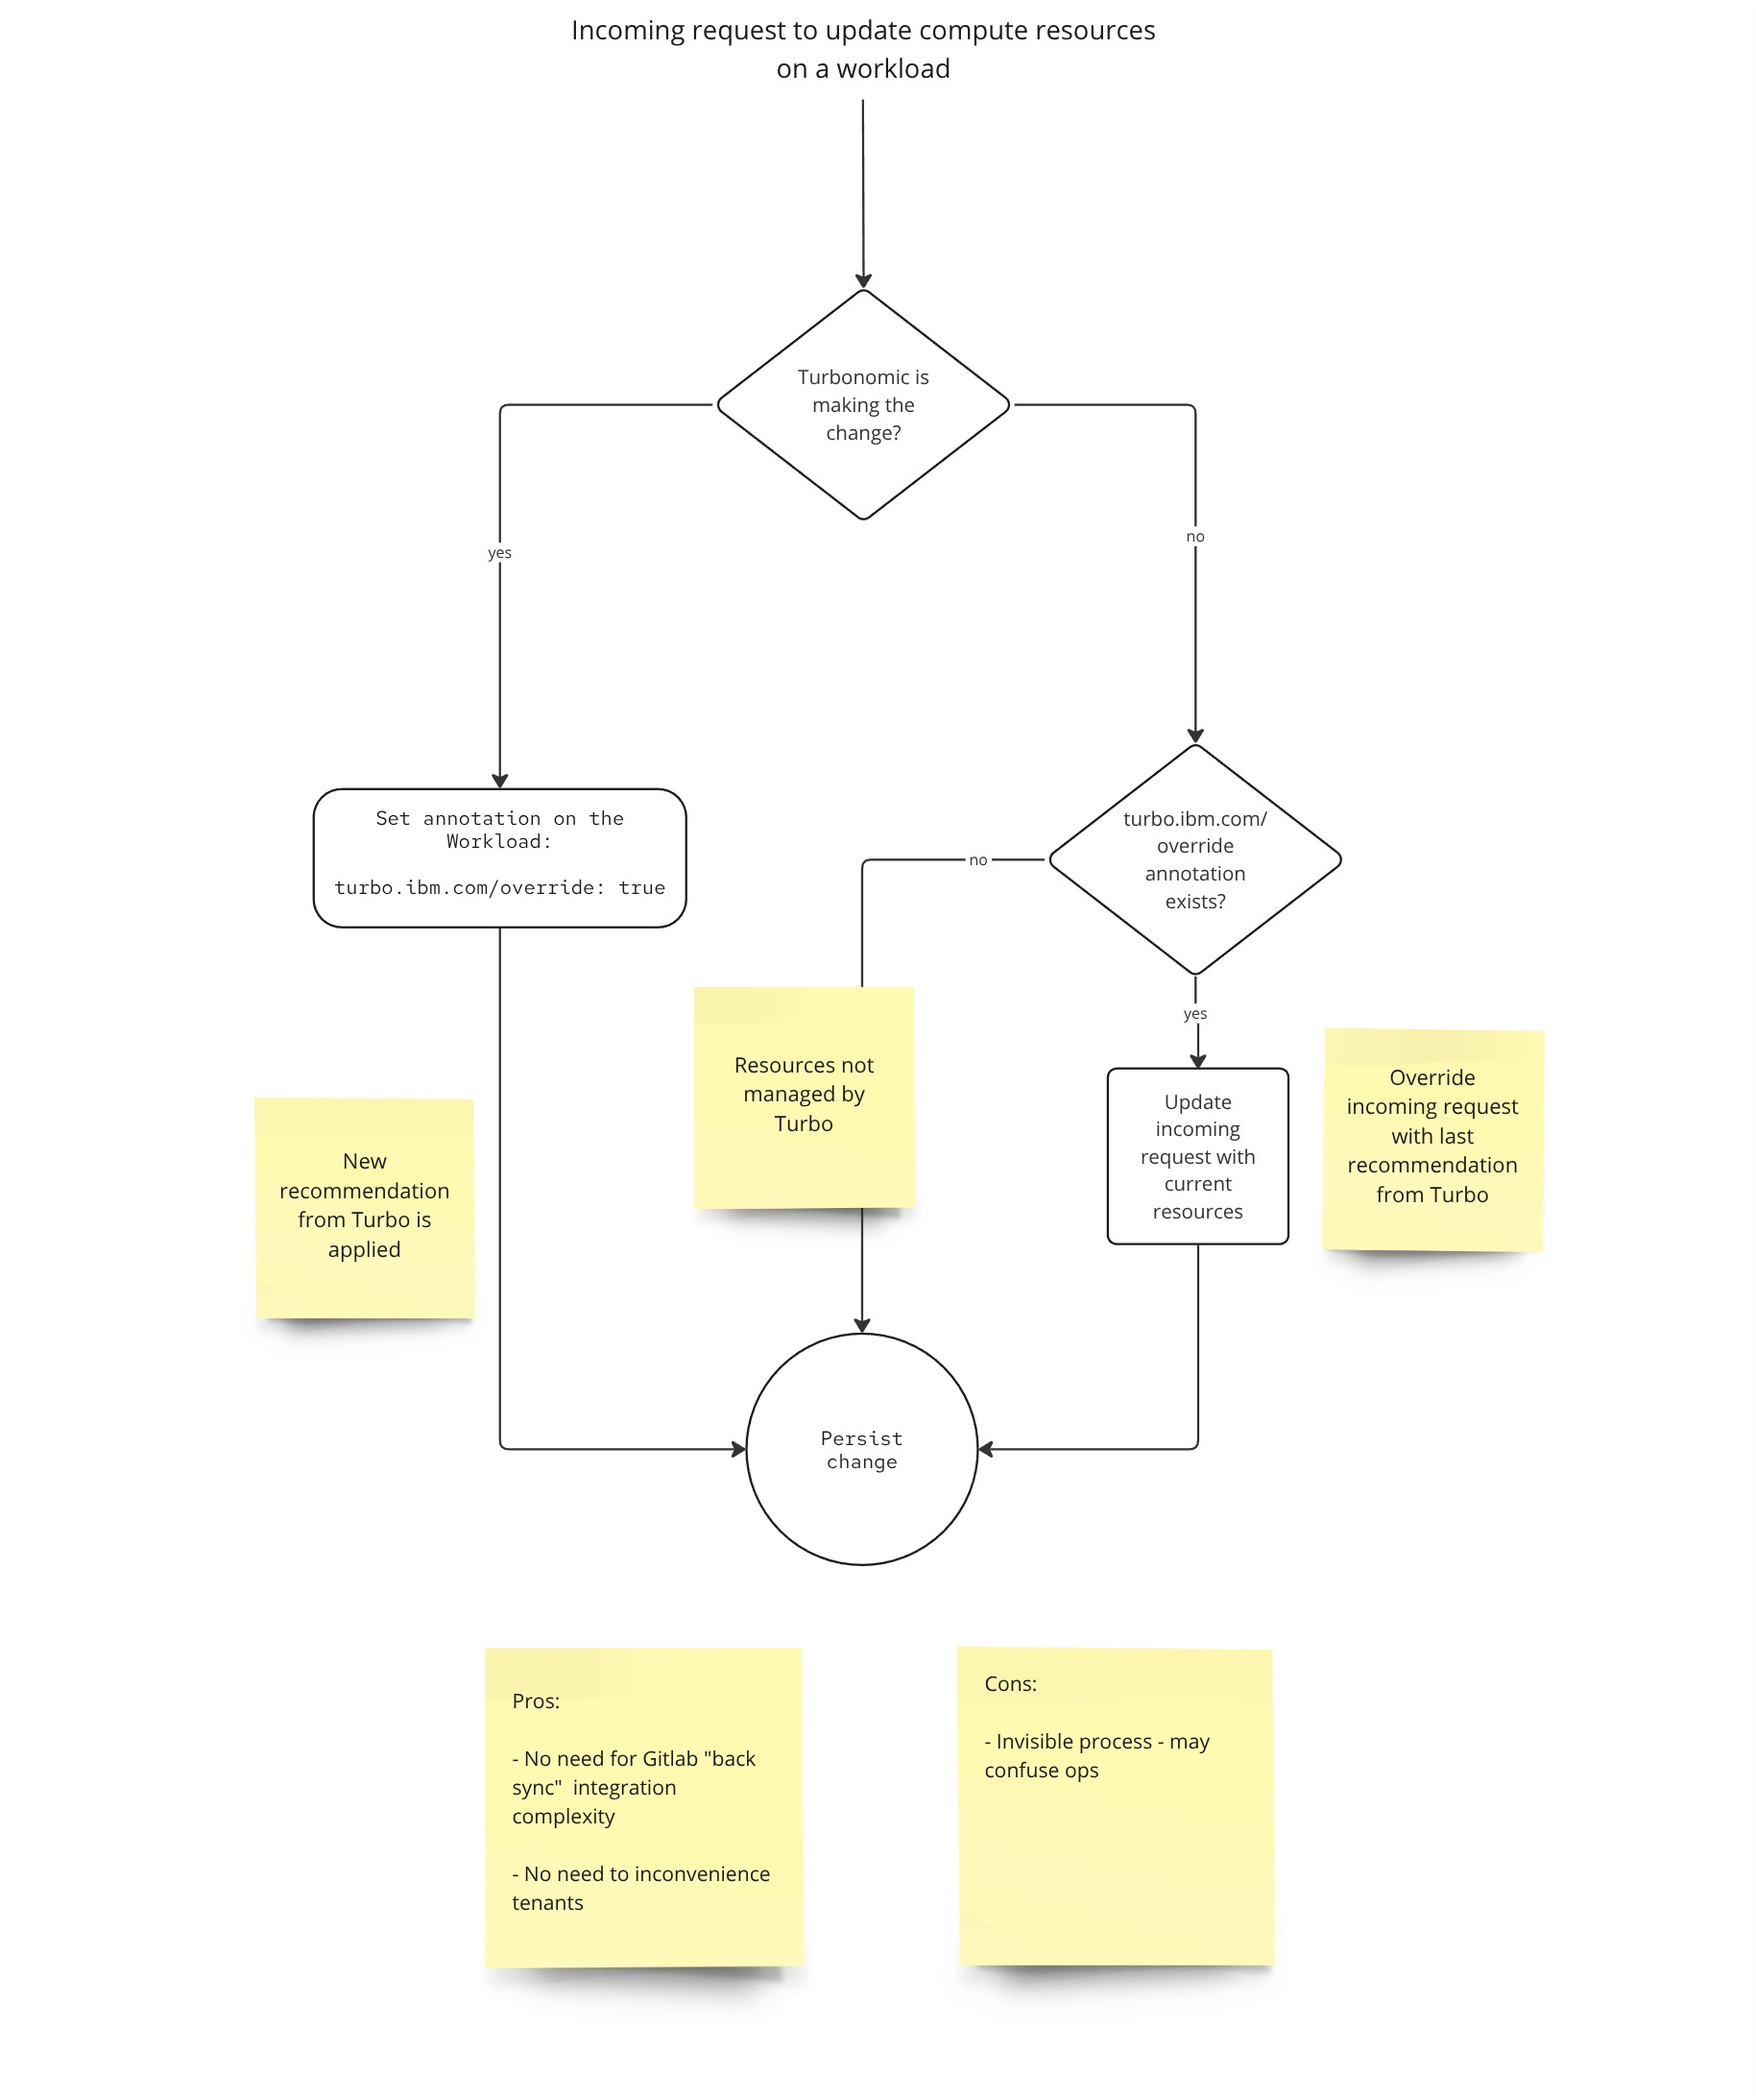
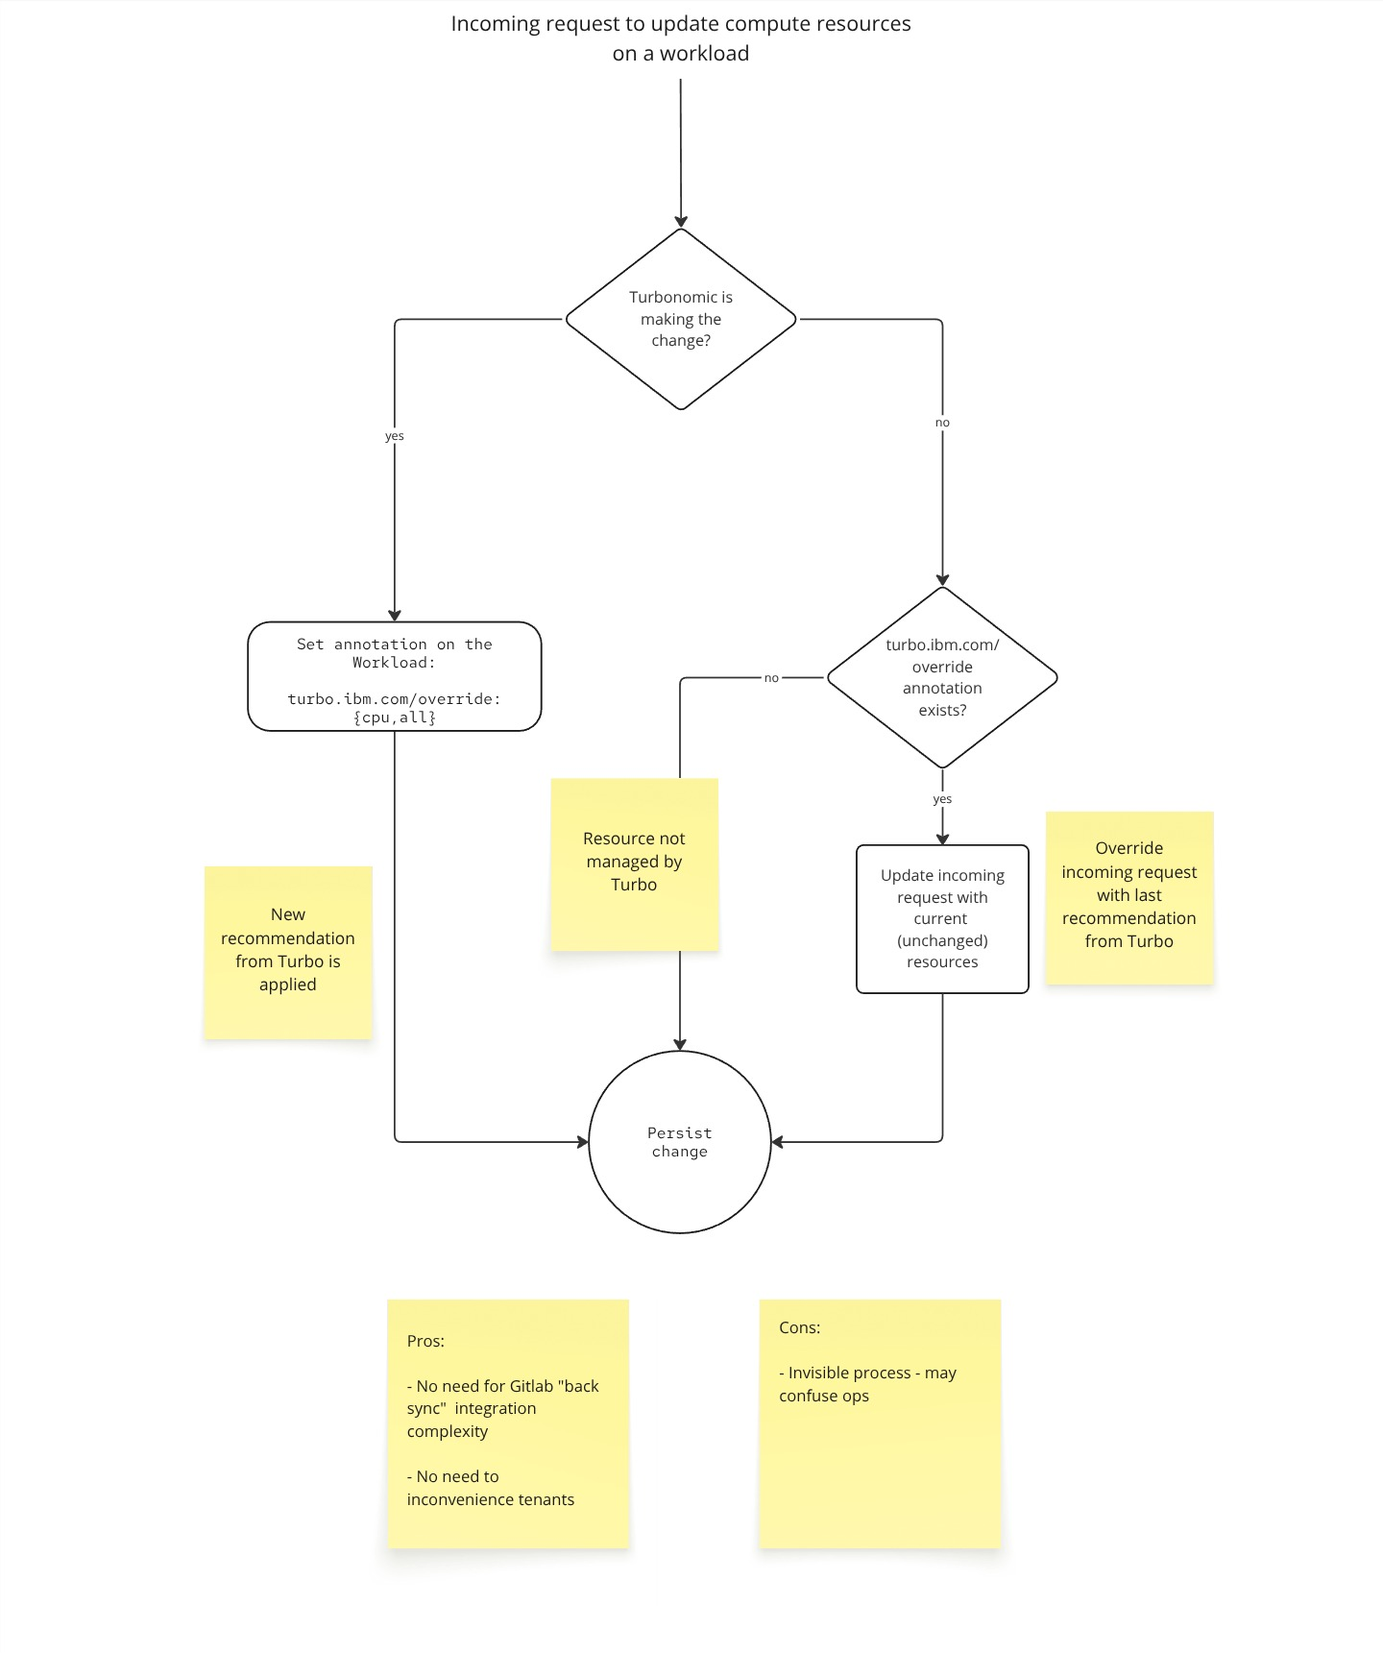
Wording updates

diff --git a/README.md b/README.md
@@ -1,30 +1,39 @@
 # turbonomic-companion-operator
 
-[IBM Turbonomic](https://www.ibm.com/products/turbonomic) is an application resource management tool. This operator aims to address the conflict between the Source of Truth for application management and Turbonomic's optimizations.
+[IBM Turbonomic](https://www.ibm.com/products/turbonomic) is an application resource management tool. This operator aims to address the conflict between the Source of Truth for application management and Turbonomic's actions.
 
 A step by step description of a conflict scenario:
 
 1. Turbonomic automatically right-sizes (makes changes to container resources) a workload running in a Kubernetes cluster.
-2. Workload owner performs a release using their own CI/CD solution. They are using configurations stored in their Source of Truth (git repository most likely). The release reverts Turbonomic's optimization.
+2. Workload owner performs a release using their own CI/CD solution. They are using configurations stored in their Source of Truth (git repository most likely). The release reverts Turbonomic's actions.
 3. Later, Turbonomic automatically right-sizes the workload, again.
-4. Turbonomic's optimization is effective until the next reconciliation from The Source of Truth.
+4. Turbonomic's action is effective until the next reconciliation from The Source of Truth.
 5. Back and forth continues.
 
-One way to solve this problem is by updating The Source of Truth accordingly. This is easier said than done, especially on multi-tenant clusters with heterogenous CI/CD solutions, but can be done using an [Action Script Server](https://www.ibm.com/docs/en/tarm/8.15.2?topic=scripts-setting-up-action-script-server) or [IBM Rapid Automation](https://community.ibm.com/community/user/aiops/blogs/raul-gonzalez/2024/12/12/seamlessly-integrate-turbonomic-with-cicd-pipeline).
+One way to solve this problem is by updating The Source of Truth accordingly. This is easier said than done, especially on multi-tenant clusters with heterogenous CI/CD solutions - each tenant team owns their own git repository and CI/CD pipeline, which the platform team generally cannot access or modify. The Source of Truth "back sync" can be done, for example using an [Action Script Server](https://www.ibm.com/docs/en/tarm/8.15.2?topic=scripts-setting-up-action-script-server) or [IBM Rapid Automation](https://community.ibm.com/community/user/aiops/blogs/raul-gonzalez/2024/12/12/seamlessly-integrate-turbonomic-with-cicd-pipeline), but requires coordination with and buy-in from every tenant team.
 
-This solution does not attempt to integrate with workload owner's Source of Truth. Instead, it makes Turbonomic the Source of Truth for workload resources. The advantage is that integration with the Source of Truth and related CI/CD - which can be challenging - is not needed. The disadvantage is introducing an additional Source of Truth (there should be just one really) and potentially confusing the owner ("the live workload resources do not match my Source of Truth - what is going on?").
+The turbonomic-companion-operator works differently. It does not attempt to integrate with workload owner's Source of Truth. Instead, it makes Turbonomic the Source of Truth for workload's compute resources.
+
+* The advantage is that integration with the Source of Truth and related CI/CD - which can be challenging - is not needed.
+* The disadvantage is introducing an additional Source of Truth (there should be just one really) and potentially confusing the owner ("the live workload resources do not match my Source of Truth - what is going on?").
 
 Noting that this operator does not control which workloads are right-sized, when or how. All this is captured in policies defined in Turbonomic. Without Turbonomic, this operator does nothing.
 
 ## Workload owner documentation
 
+When Turbonomic applies resource optimizations to your workload for the first time, it will be automatically annotated with `turbo.ibm.com/override` annotation. From that moment on, only Turbonomic will be allowed to change the compute resources. If any other agent attempts it, the request will succeed (satisfying the other agent), but compute resources will not be affected and the values will stick to what was set by the last Turbonomic action.
+
+`turbo.ibm.com/override` annotation can have 3 values:
+
+* `cpu` - only cpu resources are managed by Turbonomic. Memory resources can still be changed by other agents. Set automatically when Turbonomic's first optimization only adjusted CPU.
+* `all` - both cpu and memory are managed by Turbonomic. Neither cpu nor memory can be changed by other agents. Set automatically when Turbonomic adjusts memory resources (or both). The mode can upgrade from `cpu` to `all` as Turbonomic's scope grows, but never downgrades.
+* `false` - explicitly releasing both cpu and memory from Turbonomic management (same as no annotation). This is the opt-out value — set it manually when you want to take back control of compute resources.
+
+Note that you cannot remove the `turbo.ibm.com/override` annotation unless it's set to `false`. To release the workload from Turbonomic's control, first remove it from Turbonomic (at least ensure Turbonomic's actions are not automatically applied) and then set the annotation to "false" to disable the webhook behavior. Once set to "false", you can remove the annotation.
+
 ### Infrequent reconciliation
 
-If you're using a CI/CD solution to make updates to your workload infrequently (i.e. only during scheduled release windows), then this webhook will work for you out of the box.
-
-When Turbonomic applies resource optimizations to your workload for the first time, it will be annotated with `turbo.ibm.com/override: "true"` annotation. From that moment on, only Turbonomic will be allowed to change the compute resources. If any other agent attempts it, the request will succeed, but compute resources will not be affected.
-
-Note that you cannot remove the `turbo.ibm.com/override` annotation. To release the workload from Turbonomic's control, first remove it from Turbonomic (at least ensure Turbonomic's optimizations are not automatically applied) and then set the annotation to "false" to disable the webhook behavior.
+If you're using a CI/CD solution to make updates to your workload infrequently (i.e. only during scheduled release windows), then this operator will work for you out of the box.
 
 ### Continuous reconciliation with ArgoCD
 
@@ -45,6 +54,14 @@ If you're managing your workloads using ArgoCD, you need to ignore compute resou
 
 If you neglect doing that, ArgoCD will be frequently trying to reconcile the workload from the source of truth and this webhook will prevent the compute resources from being updated, ad infinitum.
 
+## Implementation
+
+The webhook distinguishes Turbonomic's requests from all other actors by the Kubernetes service account: Kubeturbo (the Turbonomic agent running in the cluster) uses the `system:serviceaccount:turbonomic-operator-system:turbo-user` service account, while every other actor — ArgoCD, kubectl, CI/CD pipelines — is treated as non-Turbonomic. When Kubeturbo acts, the webhook allows the change and sets or updates the `turbo.ibm.com/override` annotation based on which resources were modified. When any other actor attempts to update a managed workload, the webhook silently restores Turbonomic's last-known resource values while still returning a success response to the caller. Changes unrelated to compute resources (environment variables, image tags, replicas, etc.) are never affected.
+
+Mutating webhook with logic following the activity diagram below:
+
+![activity diagram](docs/diagram.jpg)
+
 ## Metrics
 
 ### turbonomic_companion_operator_turbo_override_total
@@ -54,15 +71,9 @@ Dimensions:
 * workload_namespace
 * workload_kind
 * workload_name
+* workload_container
 
-A counter indicating how many times the webhook prevented an update to compute resources on a given workload to keep the last recommendation from Turbonomic effective. If this is happening frequently (many times an hour), then you likely have a disagreement between the webhook and another agent trying to update compute resources. See 'Continuous reconciliation with ArgoCD' section above for details on one particular scenario.
-
-
-## Implementation
-
-Mutating webhook with logic following the activity diagram below:
-
-![activity diagram](docs/diagram.jpg)
+A counter indicating how many times the webhook prevented an update to compute resources on a given workload to keep the last action from Turbonomic effective. If this is happening frequently (many times an hour), then you likely have a disagreement between the webhook and another agent trying to update compute resources. See 'Continuous reconciliation with ArgoCD' section above for details on one particular scenario.
 
 ## Testing
 
